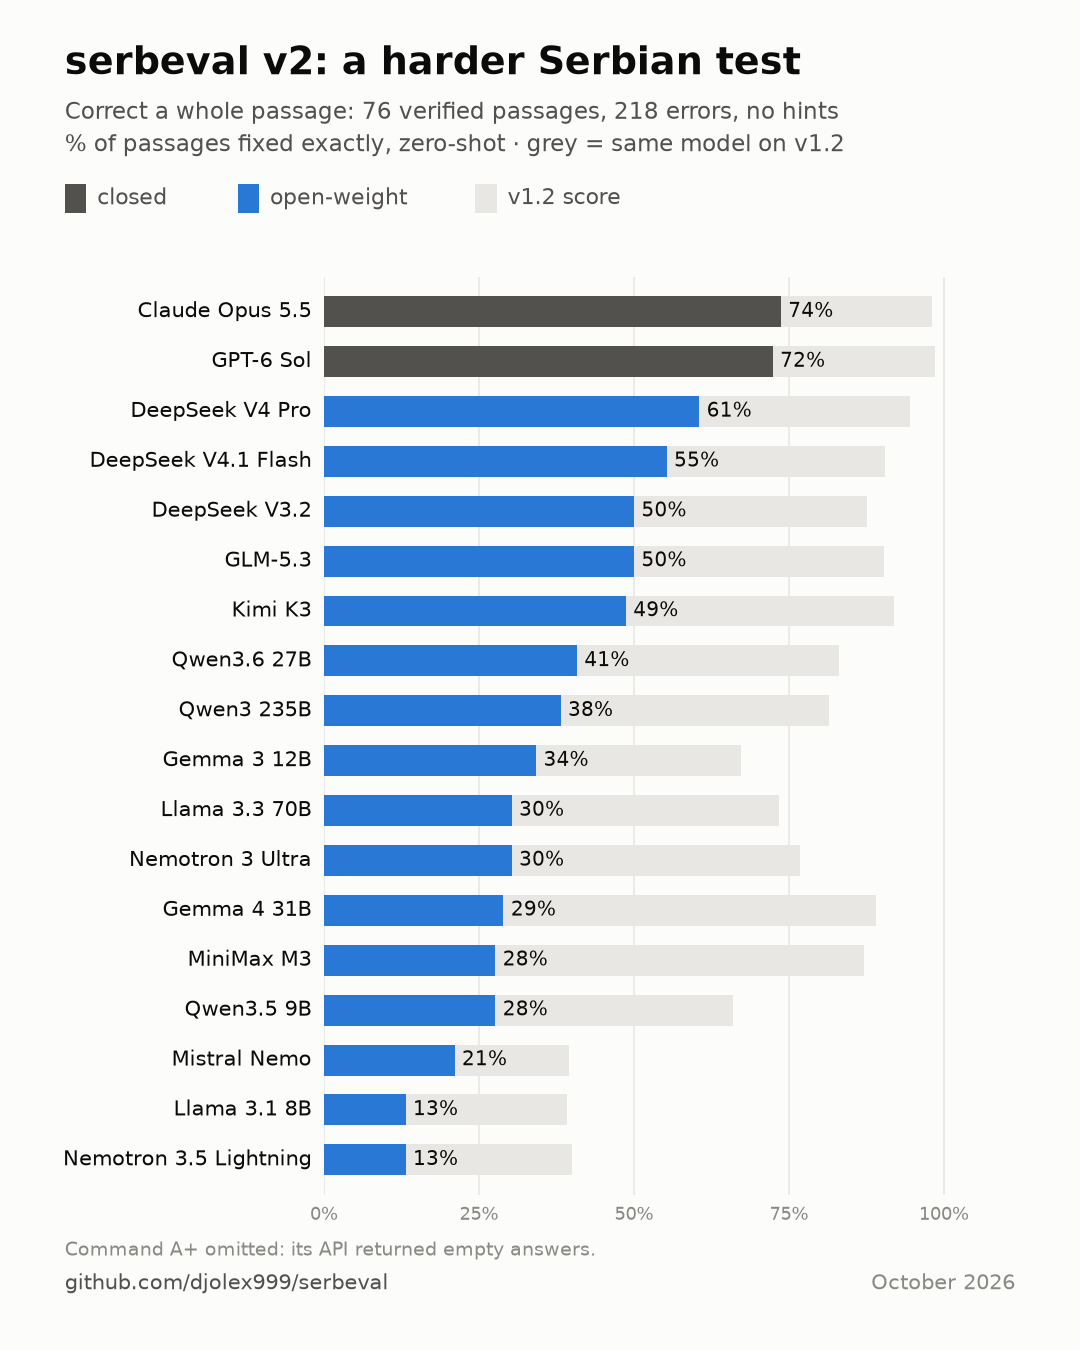
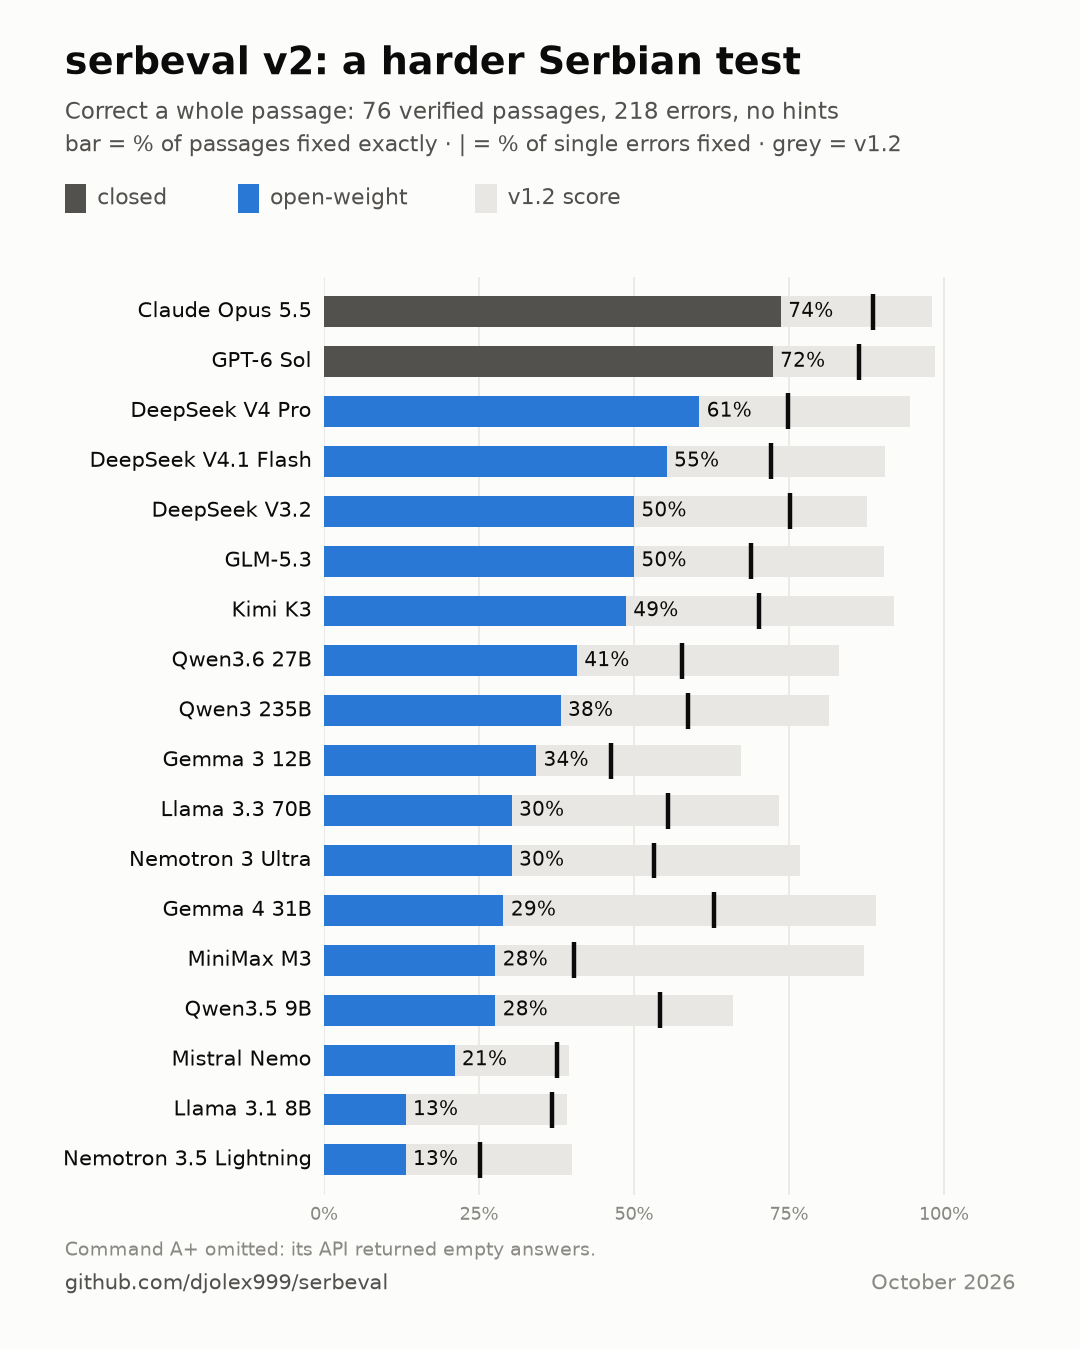
results(v2): show per-error recall next to passage exact — table, chart ticks, HF card
Like-for-like with v1.2 is errors fixed (frontier 86–89% vs 98–99%), not passages fully
correct, which is all-or-nothing over ~4 errors.

diff --git a/scripts/leaderboard_chart.py b/scripts/leaderboard_chart.py
@@ -141,8 +141,8 @@ def compare(off_root: Path, out: Path) -> None:
 V2_UNRELIABLE = {"cohere_command-a-plus"}  # its API returned empty answers on the v2 run
 
 
-def v2_scores(root: Path) -> list[tuple[str, str, float]]:
-    """(model dir name, display name, % exact passages) on the verified v2 evaluation set."""
+def v2_scores(root: Path) -> list[tuple[str, str, float, float]]:
+    """(model dir, display name, % passages exact, % errors fixed) on the verified v2 set."""
     import json
 
     sys.path.insert(0, str(Path(__file__).resolve().parent.parent / "src"))
@@ -160,9 +160,12 @@ def v2_scores(root: Path) -> list[tuple[str, str, float]]:
         answers = [a for a in answers if a["id"] in items]
         if len(answers) != len(items):
             continue
-        exact = sum(score_passage(extract_passage(a["raw"]), parse_markup(items[a["id"]]["markup"])).exact
-                    for a in answers)
-        rows.append((path.stem, NAMES.get(path.stem, path.stem), 100 * exact / len(items)))
+        scored = [score_passage(extract_passage(a["raw"]), parse_markup(items[a["id"]]["markup"]))
+                  for a in answers]
+        exact = sum(s.exact for s in scored)
+        fixed = sum(s.true_pos for s in scored)
+        recall = 100 * fixed / max(1, fixed + sum(s.false_neg for s in scored))
+        rows.append((path.stem, NAMES.get(path.stem, path.stem), 100 * exact / len(items), recall))
     return sorted(rows, key=lambda r: r[2], reverse=True)
 
 
@@ -173,11 +176,13 @@ def v2_chart(out: Path) -> None:
     fig = plt.figure(figsize=(5.4, 6.75), dpi=200, facecolor=SURFACE)
     ax = fig.add_axes((0.30, 0.115, 0.62, 0.68), facecolor=SURFACE)
     n = len(rows)
-    for i, (key, name, value) in enumerate(rows):
+    for i, (key, name, value, recall) in enumerate(rows):
         y = n - 1 - i
         if name in v1:
             ax.barh(y, v1[name], height=0.62, color=GRID, zorder=1)
         ax.barh(y, value, height=0.62, color=BAR if key in OPEN_WEIGHTS else closed, zorder=2)
+        ax.plot([recall, recall], [y - 0.36, y + 0.36], color=TEXT, linewidth=1.6, zorder=4,
+                solid_capstyle="butt")
         ax.text(value + 1.2, y, f"{value:.0f}%", va="center", ha="left", fontsize=7.2, color=TEXT, zorder=3)
         ax.text(-2, y, name, va="center", ha="right", fontsize=7.6, color=TEXT)
     ax.set_xlim(0, 108)
@@ -193,8 +198,8 @@ def v2_chart(out: Path) -> None:
              color=TEXT, ha="left")
     fig.text(0.06, 0.912, "Correct a whole passage: 76 verified passages, 218 errors, no hints",
              fontsize=8.2, color=TEXT_2, ha="left")
-    fig.text(0.06, 0.888, "% of passages fixed exactly, zero-shot · grey = same model on v1.2",
-             fontsize=8.2, color=TEXT_2, ha="left")
+    fig.text(0.06, 0.888, "bar = % of passages fixed exactly · | = % of single errors fixed · grey = v1.2",
+             fontsize=8.0, color=TEXT_2, ha="left")
     for x, color, label in ((0.06, closed, "closed"), (0.22, BAR, "open-weight"), (0.44, GRID, "v1.2 score")):
         fig.patches.append(FancyBboxPatch((x, 0.842), 0.02, 0.022, boxstyle="square,pad=0",
                                           transform=fig.transFigure, facecolor=color, edgecolor="none"))

diff --git a/scripts/build_hf_dataset.py b/scripts/build_hf_dataset.py
@@ -85,7 +85,13 @@ def build_v2(out: Path) -> tuple[int, int, int, str, int]:
     (out / "data" / f"{V2_CONFIG}.jsonl").write_text(
         "".join(json.dumps(r, ensure_ascii=False) + "\n" for r in rows), encoding="utf-8")
     board = (ROOT / "results" / "v2" / "LEADERBOARD.md").read_text(encoding="utf-8").splitlines()
-    table = "\n".join(line for line in board if line.startswith("|"))
+    blocks: list[list[str]] = []
+    for prev, line in zip(["", *board], board, strict=False):
+        if line.startswith("|"):
+            if not prev.startswith("|"):
+                blocks.append([])
+            blocks[-1].append(line)
+    table = "\n\n".join("\n".join(b) for b in blocks)
     return len(rows), sites_total, clean, table, sum(r["origin"] == "handwritten" for r in rows)
 
 
@@ -241,8 +247,11 @@ and precision are diagnostics, and precision catches over-correction.
 
 {v2_table}
 
-Frontier models drop from 98–99% on v1.2 to 72–74% here; their misses are mostly usage over
-norm (*kontakt-osoba*, *ekspres-lonac*, *nabrzinu*, *do viđenja*). Command A+'s API returned
+The first table compares like with like: per error, frontier models fix ~86–89% on v2 against
+~98–99% item accuracy on v1.2, i.e. roughly 5–10× more mistakes. "Passages fully correct" falls
+further (72–74%) because it is all-or-nothing over ~4 errors per passage. The errors sit where
+usage diverges from the norm (*kontakt-osoba*, *ekspres-lonac*, *nabrzinu*, *do viđenja*), so v2
+measures norm adherence in those spots, not general Serbian ability. Command A+'s API returned
 empty answers, so its row is not reliable.
 
 ## License

diff --git a/scripts/pilot_passage.py b/scripts/pilot_passage.py
@@ -127,7 +127,7 @@ def run() -> None:
 
 def report() -> None:
     items = {i["id"]: i for i in _items()}
-    print("| Model | Passage exact | Error passages exact | Clean left intact | Recall | "
+    print("| Model | Passage exact | Error passages exact | Clean left intact | Errors fixed (recall) | "
           "Precision | False alarms | Unparsed |")
     print("|---|---|---|---|---|---|---|---|")
     for model in MODELS:

diff --git a/results/v2/LEADERBOARD.md b/results/v2/LEADERBOARD.md
@@ -4,7 +4,39 @@ Chart: `results/v2/leaderboard-v2.png` (`python3 scripts/leaderboard_chart.py --
 
 76 verified passages (data/v2/evaluation.json), 218 required error sites, 18 clean passages; format A (correct the whole passage, no cue). Routing as in the official v1 runs; one request per passage, reasoning off where the model allows it. Scorer: serbeval.passage (per-edit; case, punctuation and script folded). Reproduce: `PYTHONPATH=src python scripts/pilot_passage.py report v2 all`.
 
-| Model | Passage exact | Error passages exact | Clean left intact | Recall | Precision | False alarms | Unparsed |
+## How much harder? Two numbers, not one
+
+"Passages fully correct" is all-or-nothing over ~4 errors per passage, so it falls faster than
+per-error accuracy (a model fixing 89% of errors gets all 4 in a passage only ~63% of the time).
+The like-for-like comparison with v1.2 is **errors fixed**: frontier models make roughly 5–10×
+more mistakes on v2 (Opus 2% → 11%, GPT-6 Sol 1% → 14%). The errors were deliberately placed
+where common usage diverges from Pravopis 2010, so v2 measures adherence to the norm in exactly
+those spots, not general Serbian ability.
+
+| Model | v1.2 (items correct) | v2: errors fixed | v2: passages fully correct |
+|---|---|---|---|
+| Claude Opus 5.5 | 98% | 89% | **74%** |
+| GPT-6 Sol | 99% | 86% | **72%** |
+| DeepSeek V4 Pro | 95% | 75% | **61%** |
+| DeepSeek V4.1 Flash | 90% | 72% | **55%** |
+| DeepSeek V3.2 | 88% | 75% | **50%** |
+| GLM-5.3 | 90% | 69% | **50%** |
+| Kimi K3 | 92% | 70% | **49%** |
+| Qwen3.6 27B | 83% | 58% | **41%** |
+| Qwen3 235B | 81% | 59% | **38%** |
+| Gemma 3 12B | 67% | 46% | **34%** |
+| Llama 3.3 70B | 73% | 56% | **30%** |
+| Nemotron 3 Ultra | 77% | 53% | **30%** |
+| Gemma 4 31B | 89% | 63% | **29%** |
+| MiniMax M3 | 87% | 40% | **28%** |
+| Qwen3.5 9B | 66% | 54% | **28%** |
+| Mistral Nemo | 39% | 38% | **21%** |
+| Llama 3.1 8B | 39% | 37% | **13%** |
+| Nemotron 3.5 Lightning | 40% | 25% | **13%** |
+
+## Full v2 table
+
+| Model | Passage exact | Error passages exact | Clean left intact | Errors fixed (recall) | Precision | False alarms | Unparsed |
 |---|---|---|---|---|---|---|---|
 | anthropic/claude-opus-5.5 | 56/76 | 43/58 | 13/18 | 89% (193/218) | 96% | 7 | 0 |
 | openai/gpt-6-sol | 55/76 | 38/58 | 17/18 | 86% (188/218) | 99% | 1 | 0 |
